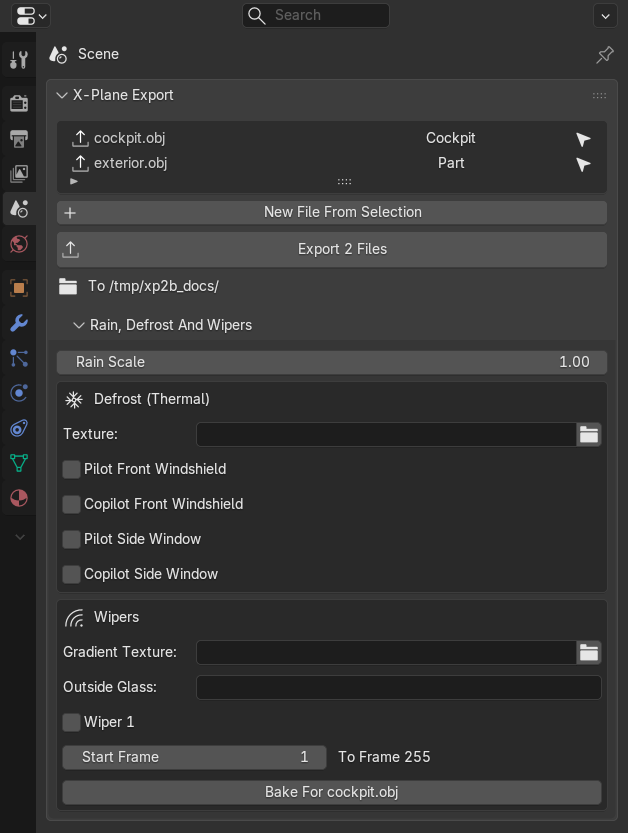
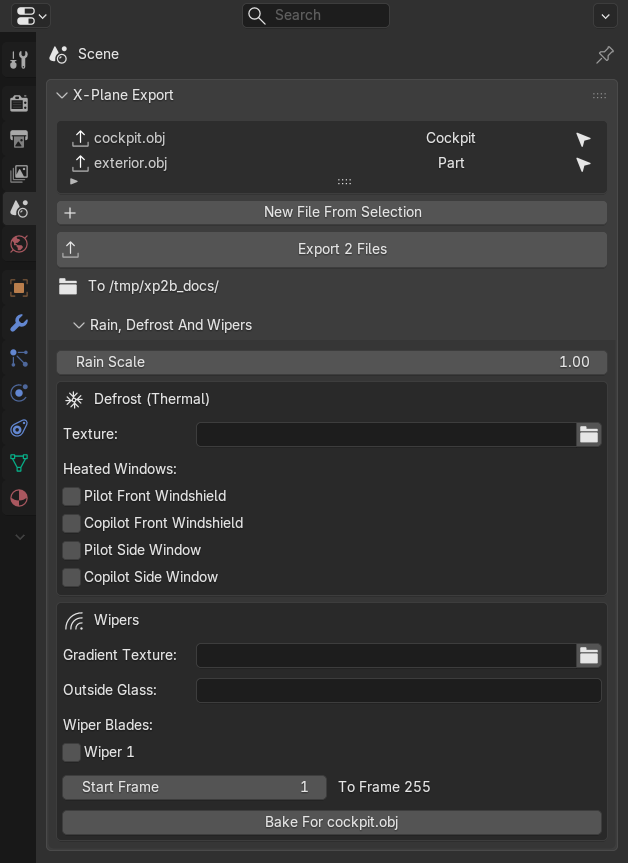
Name the defrost windows and wiper blades again; Look In for Find And Replace

diff --git a/io_xplane2blender/ui/file_panels.py b/io_xplane2blender/ui/file_panels.py
@@ -111,11 +111,13 @@ class XPLANE_PT_file_rain(_FilePanel, bpy.types.Panel):
         box = layout.box()
         box.label(text="Defrost (Thermal)", icon="FREEZE")
         box.prop(rain, "thermal_texture", text="Texture")
+        heats = box.column()
+        heats.label(text="Heated Windows:")
         for i, label in enumerate(THERMAL_LABELS, start=1):
             source = getattr(rain, f"thermal_source_{i}")
-            col = box.column(align=True)
-            col.prop(rain, f"thermal_source_{i}_enabled", text=label)
+            heats.prop(rain, f"thermal_source_{i}_enabled", text=label)
             if getattr(rain, f"thermal_source_{i}_enabled"):
+                col = heats.column(align=True)
                 col.prop(source, "defrost_time", text="Seconds")
                 col.prop(source, "dataref_on_off", text="On/Off Dataref")
 
@@ -123,13 +125,15 @@ class XPLANE_PT_file_rain(_FilePanel, bpy.types.Panel):
         box.label(text="Wipers", icon="MOD_WAVE")
         box.prop(rain, "wiper_texture", text="Gradient Texture")
         box.prop(rain, "wiper_ext_glass_object", text="Outside Glass")
+        blades = box.column()
+        blades.label(text="Wiper Blades:")
         for i in range(1, 5):
-            col = box.column(align=True)
-            col.prop(rain, f"wiper_{i}_enabled", text=f"Wiper {i}")
+            blades.prop(rain, f"wiper_{i}_enabled", text=f"Wiper {i}")
             if not getattr(rain, f"wiper_{i}_enabled"):
                 # Wipers are numbered from the first: the export stops at the first one turned off
                 break
             wiper = getattr(rain, f"wiper_{i}")
+            col = blades.column(align=True)
             col.prop(wiper, "object_name", text="Blade Object")
             col.prop(wiper, "dataref", text="Dataref")
             row = compact_row(col)

diff --git a/io_xplane2blender/xplane_bulk_edit.py b/io_xplane2blender/xplane_bulk_edit.py
@@ -17,7 +17,7 @@ from typing import Callable, Dict, Iterator, List, Optional, Sequence, Set, Tupl
 import bpy
 
 from . import xplane_scene_changes as scene_changes
-from .xplane_properties_panel import Properties, compact_grid, compact_row
+from .xplane_properties_panel import Properties, compact_row, named
 from .xplane_scene_changes import Remembered
 
 KINDS = (
@@ -388,7 +388,7 @@ class XPLANE_PT_bulk_edit(Properties, bpy.types.Panel):
         row.operator(XPLANE_OT_bulk_pairs_swap.bl_idname, text="", icon="UV_SYNC_SELECT")
 
         layout.prop(s, "scope")
-        grid = compact_grid(layout, columns=2, even_columns=True, align=True)
+        grid = named(layout, "Look In").grid_flow(columns=2, even_columns=True, align=True)
         for identifier, _, _ in KINDS:
             grid.prop_enum(s, "kinds", identifier)
         row = compact_row(layout)

diff --git a/docs/reference.md b/docs/reference.md
@@ -379,7 +379,7 @@ Nothing to set here in the demo scene.
 | Add Pair | button |  | Add a find and replace pair |
 | Swap Find And Replace | icon button |  | Swap Find And Replace in every pair, to go back the other way (right to left instead of left to right) |
 | Objects | setting |  | Choices: Selected, Selected And Children, Whole Scene. |
-| Settings | setting |  | Choices: Commands, Datarefs, Light Levels, Tooltips, Custom Attributes. |
+| Look In: | setting |  | Choices: Commands, Datarefs, Light Levels, Tooltips, Custom Attributes. |
 | Match Case | setting |  | Datarefs and commands are case sensitive in X-Plane |
 | Regex | setting |  | Read Find as a regular expression, Replace may use \1 for groups |
 | Preview | setting |  |  |
